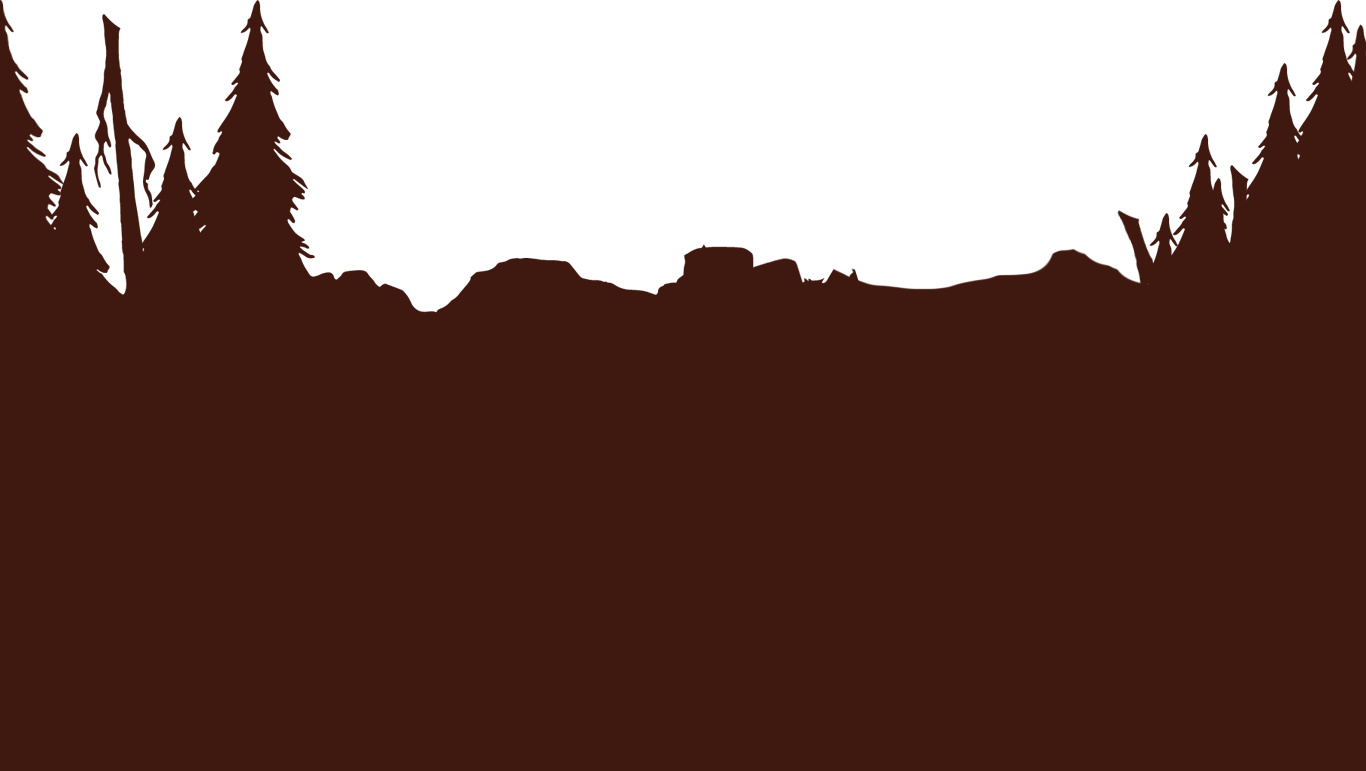
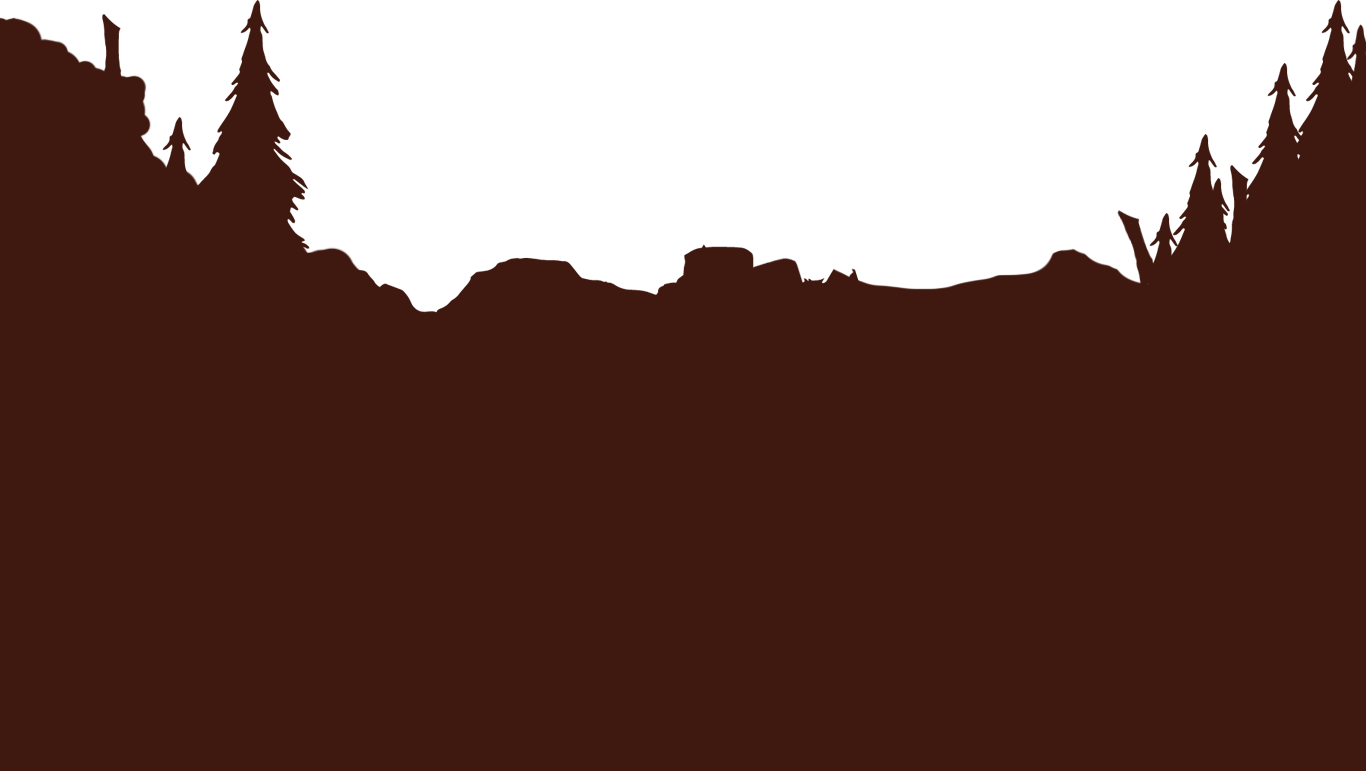
add featured page

Changed region(s): [[0.0, 0.0, 0.1537, 0.3735], [0.2152, 0.3113, 0.2767, 0.3735]]

diff --git a/src/Featured/Featured.js b/src/Featured/Featured.js
@@ -1,0 +1,31 @@
+import React from 'react';
+import Clouds from '../Clouds/Clouds.js';
+import featureForeground from '../assets/featured-foreground.png';
+import contactMtn from '../assets/contact-mtn.png';
+import stars from '../assets/stars.png';
+import './Featured.css';
+
+
+const Featured = ({ }) => {
+
+
+  return (
+    <div className='featured-page-container'>
+
+      <div className='night'>
+        <img className='stars' src={ stars } alt='stary sky'/>
+      </div>
+      <img className='featured-mtn' src={contactMtn} alt='mountain landscape'/>
+      < Clouds />
+      <img className='featured-page-foreground' src={featureForeground} alt='rocky landscape'/>
+
+    </div>
+  )
+
+}
+
+Featured.propTypes = {
+
+}
+
+export default Featured;

diff --git a/src/Breweries/Breweries.js b/src/Breweries/Breweries.js
@@ -10,14 +10,14 @@ const Breweries = ({ }) => {
 
 
   return (
-    <div className='beer-locker-page-container'>
+    <div className='breweries-page-container'>
 
       <div className='night'>
         <img className='stars' src={ stars } alt='stary sky'/>
       </div>
-      <img className='beer-locker-mtn' src={beerLockerMtn} alt='mountain landscape'/>
+      <img className='breweries-mtn' src={beerLockerMtn} alt='mountain landscape'/>
       < Clouds />
-      <img className='beer-locker-page-foreground' src={beerLockerForeground} alt='rocky landscape'/>
+      <img className='breweries-page-foreground' src={beerLockerForeground} alt='rocky landscape'/>
 
     </div>
   )

diff --git a/src/Beer/Beer.js b/src/Beer/Beer.js
@@ -10,14 +10,14 @@ const Beer = ({ }) => {
 
 
   return (
-    <div className='beer-search-page-container'>
+    <div className='beer-page-container'>
 
       <div className='night'>
         <img className='stars' src={ stars } alt='stary sky'/>
       </div>
-      <img className='beer-search-mtn' src={beerSearchMtn} alt='mountain landscape'/>
+      <img className='beer-mtn' src={beerSearchMtn} alt='mountain landscape'/>
       < Clouds />
-      <img className='beer-search-page-foreground' src={beerSearchForeground} alt='rocky landscape'/>
+      <img className='beer-page-foreground' src={beerSearchForeground} alt='rocky landscape'/>
 
     </div>
   )

diff --git a/src/App.js b/src/App.js
@@ -1,6 +1,7 @@
 import React, { Component } from 'react';
 import PageWindow from './PageWindow/PageWindow.js';
 import Header from './Header/Header.js';
+import key from './key.js'
 import './App.css';
 
 class App extends Component {
@@ -8,9 +9,16 @@ class App extends Component {
   constructor() {
       super();
       this.state = {
-        pagePosition: 'page-strip-container home-position'
+        pagePosition: 'page-strip-container home-position',
+        featured: null
       };
     }
+
+  // componentDidMount = () => {
+  //   this.getFeatured()
+  // }
+
+
 
   pageChange = (page) => {
     this.setState({

diff --git a/src/Featured/Featured.css b/src/Featured/Featured.css
@@ -1,24 +1,24 @@
 /**********************************************
-          Contact
+          Featured
 ***********************************************/
 
-.contact-page-container {
+.featured-page-container {
   width: 20%;
   height: 100%;
   position: absolute;
   top: 0px;
-  left: 0%;
+  left: 80%;
   overflow: hidden;
 }
 
-.contact-page-foreground  {
+.featured-page-foreground  {
   width: 100%;
   position: absolute;
   top: 54%;
   z-index: 10;
 }
 
-.contact-mtn  {
+.featured-mtn  {
   width: 100%;
   position: absolute;
   top: 55%;

diff --git a/src/Breweries/Breweries.css b/src/Breweries/Breweries.css
@@ -2,23 +2,23 @@
           BeerLocker
 ***********************************************/
 
-.beer-locker-page-container {
-  width: 25%;
+.breweries-page-container {
+  width: 20%;
   height: 100%;
   position: absolute;
   top: 0px;
-  left: 75%;
+  left: 60%;
   overflow: hidden;
 }
 
-.beer-locker-page-foreground  {
+.breweries-page-foreground  {
   width: 100%;
   position: absolute;
   top: 54%;
   z-index: 10;
 }
 
-.beer-locker-mtn  {
+.breweries-mtn  {
   width: 100%;
   position: absolute;
   top: 55%;

diff --git a/src/Header/Header.js b/src/Header/Header.js
@@ -9,6 +9,7 @@ const Header = ({ pageChange }) => {
     <div className='header-container'>
 
       <p className='navigation' onClick={ () => pageChange('contact') }>CONTACT</p>
+      <p className='navigation' onClick={ () => pageChange('featured') }>FEATURED</p>
       <p className='navigation' onClick={ () => pageChange('breweries') }>BREWERIES</p>
       <p className='navigation' onClick={ () => pageChange('beer') }>BEER</p>
       <p className='navigation' onClick={ () => pageChange('home') }>HOME</p>

diff --git a/src/Beer/Beer.css b/src/Beer/Beer.css
@@ -2,23 +2,23 @@
           BeerSearch
 ***********************************************/
 
-.beer-search-page-container {
-  width: 25%;
+.beer-page-container {
+  width: 20%;
   height: 100%;
   position: absolute;
   top: 0px;
-  left: 50%;
+  left: 40%;
   overflow: hidden;
 }
 
-.beer-search-page-foreground  {
+.beer-page-foreground  {
   width: 100%;
   position: absolute;
   top: 54%;
   z-index: 10;
 }
 
-.beer-search-mtn  {
+.beer-mtn  {
   width: 100%;
   position: absolute;
   top: 56%;

diff --git a/src/PageStrip/PageStrip.js b/src/PageStrip/PageStrip.js
@@ -3,6 +3,7 @@ import HomePage from '../HomePage/HomePage.js';
 import Contact from '../Contact/Contact.js';
 import Beer from '../Beer/Beer.js';
 import Breweries from '../Breweries/Breweries.js';
+import Featured from '../Featured/Featured.js';
 import './PageStrip.css';
 
 
@@ -16,6 +17,7 @@ const PageStrip = ({ pagePosition }) => {
       < HomePage />
       < Beer />
       < Breweries />
+      < Featured />
 
     </div>
   )

diff --git a/src/PageStrip/PageStrip.css b/src/PageStrip/PageStrip.css
@@ -3,7 +3,7 @@
 ***********************************************/
 
 .page-strip-container {
-  width: 400%;
+  width: 500%;
   height: 100vh;
   background: #f5e7e0;
   display: flex;
@@ -30,4 +30,9 @@
 .breweries-position  {
   top: 0%;
   right: 300%;
+}
+
+.featured-position  {
+  top: 0%;
+  right: 400%;
 }

diff --git a/src/HomePage/HomePage.css b/src/HomePage/HomePage.css
@@ -3,11 +3,11 @@
 ***********************************************/
 
 .home-page-container {
-  width: 25%;
+  width: 20%;
   height: 100%;
   position: absolute;
   top: 0px;
-  left: 25%;
+  left: 20%;
   overflow: hidden;
 }
 

diff --git a/src/key.js b/src/key.js
@@ -1,0 +1,1 @@
+export default '3524dd13935ddeee2400de4cfa2c550b';
